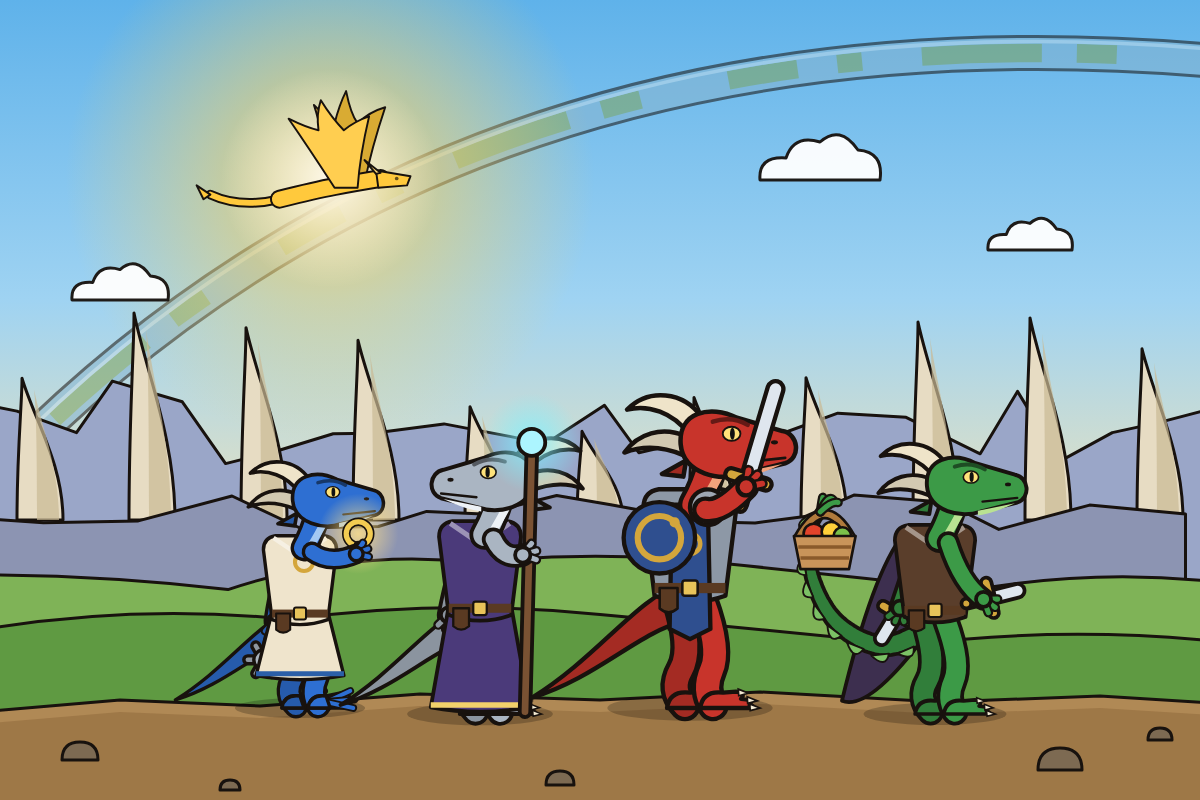
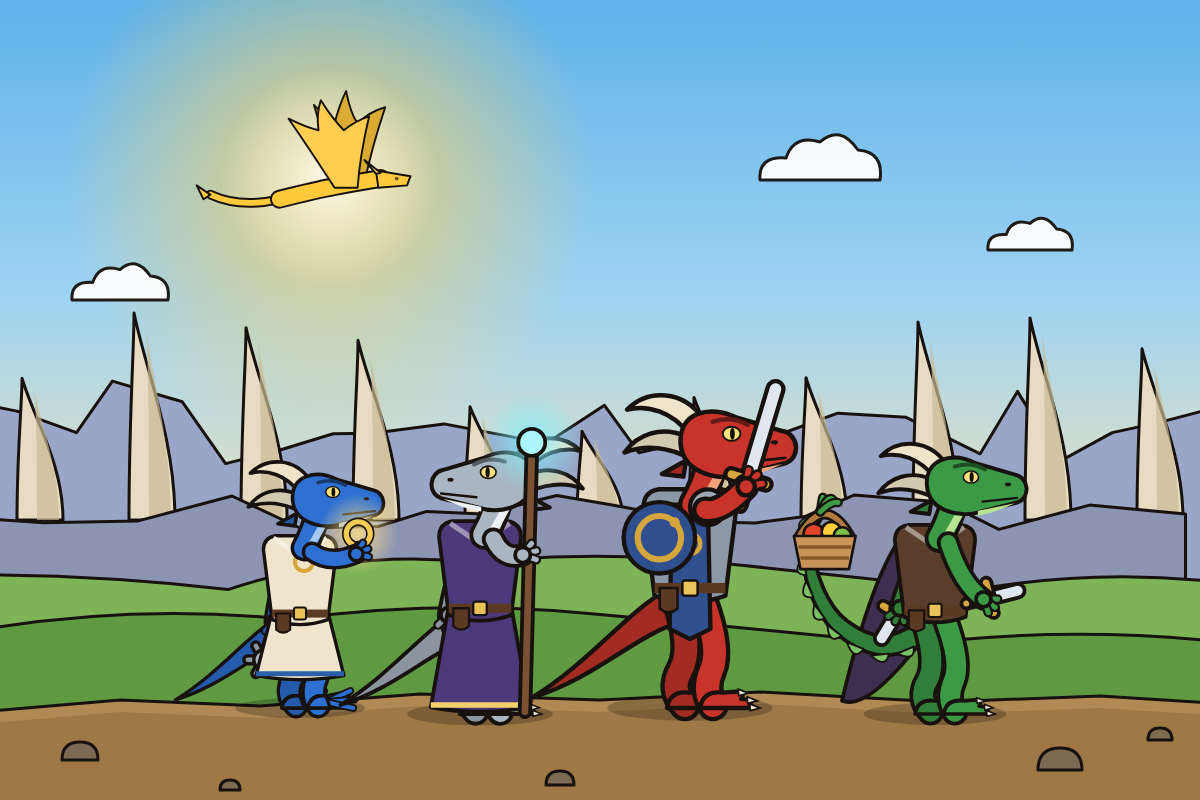
Retire the myth handout and the lore panels; drop the Spine scene's ring arch
- The myth handout Doc is deleted (Troy); a players' handbook chapter on
  the world will probably replace it (PLAN 2c).
- Lore panels deleted: lore_panels.py and its six images. The tapestries
  and their generator code stay.
- Spine scene: no ring arch, since from the outer equator the far side is
  below the horizon.

Claude-Session: https://claude.ai/code/session_014HRxeLr7e6EW9qyhZxDWju

Changed region(s): [[0.3392, 0.0312, 1.0, 0.25], [0.0308, 0.2812, 0.2467, 0.5312]]

diff --git a/art/cartoon/forms.py b/art/cartoon/forms.py
@@ -1,7 +1,7 @@
 """Dragonborn form details shared by every Saturday-Morning Bold drawing (2026-11-12, Troy):
 Red a touch larger and Blue a touch smaller; Green's prehensile tail holding an everyday thing
 (never a weapon or a shield); webbed fingers and toes for Blue and Indigo; the White form's
-Spectral Wings. Used by party.figure() (adventurers: colour wheel, handout scenes) and by
+Spectral Wings. Used by party.figure() (adventurers: colour wheel, adventuring scenes) and by
 tapestry_lib.person() (the tapestries). See art/STYLE.md, "Dragonborn by form"."""
 import math, random
 import numpy as np

diff --git a/worldgen/farside.py b/worldgen/farside.py
@@ -92,7 +92,7 @@ def band_grid(theta_deg, phi_deg=120):
 
 if __name__ == '__main__':
     os.makedirs(OUT, exist_ok=True)
-    thetas = [int(a) for a in sys.argv[1:]] or [110, 20, 250, 60, 10]   # Epochs 2-5; the Inner Sea handout scene
+    thetas = [int(a) for a in sys.argv[1:]] or [110, 20, 250, 60, 10]   # Epochs 2-5; the Inner Sea scene
     for td in thetas:
         Eg, Cg = band_grid(td)
         np.savez_compressed(os.path.join(OUT, f'farside_t{td}.npz'), E=Eg.astype(np.float16), C=Cg.astype(np.float16))

diff --git a/art/cartoon/make_scenes.py b/art/cartoon/make_scenes.py
@@ -1,4 +1,4 @@
-"""Render the two Saturday-Morning Bold dragonborn scenes used in the handout -> output/dragonborn_spine.png, output/dragonborn_innersea.png."""
+"""Render the two Saturday-Morning Bold dragonborn scenes (made for the retired myth handout) -> output/dragonborn_spine.png, output/dragonborn_innersea.png."""
 import os, sys, subprocess
 HERE = os.path.dirname(os.path.abspath(__file__)); os.chdir(HERE); sys.path.insert(0, HERE)
 os.makedirs('build', exist_ok=True); os.makedirs('output', exist_ok=True)

diff --git a/art/cartoon/tapestry_lib.py b/art/cartoon/tapestry_lib.py
@@ -533,7 +533,7 @@ def ring_band(hz, top_side=300, top_mid=380, foot_in=130, arch_mid=250, sky_unde
 
 def farside_ribbon(p0, c, p1, w, view, night=False, op=1.0, sty=None):
     """The ring arch as a ribbon along the quadratic curve p0 -> c -> p1 (w wide), showing the
-    real far side of the map (the handout scenes' style of arch)."""
+    real far side of the map (the Inner Sea scene's style of arch)."""
     sty = sty or st
     P0, C_, P1 = (np.array(q, float) for q in (p0, c, p1))
 

diff --git a/art/cartoon/party.py b/art/cartoon/party.py
@@ -458,7 +458,7 @@ def party(lst, gy, st, base):
 
 def scene_spine(st):
     b = sky(['#5fb2ea', '#9fd3f2', '#ffe7b0'], st, 0, 600)
-    b += ring_arch('M -80,560 Q 420,-40 1300,70', 30, st, op=.55)
+    # no ring arch here (Troy, 2026-11-12): from the outer equator the far side is below the horizon
     b += sky_dragon(330, 190, 1.15, '#ffc93c', '#ffd25a', st)
     if not st['geo'] or True:
         b += cloud(820, 180, 1.0, st) + cloud(1030, 250, .7, st) + cloud(120, 300, .8, st)

diff --git a/art/cartoon/tapestries.py b/art/cartoon/tapestries.py
@@ -1115,7 +1115,7 @@ def scene3():
 
 # ============================================================ Epoch 4
 def eggshell(cx, yb, rw, rh, fill, speck, seed, lean=0):
-    """Lower half of a giant cracked egg, with a zigzag rim (after lore_panels.py)."""
+    """Lower half of a giant cracked egg, with a zigzag rim (after the retired lore panels)."""
     rnd = random.Random(seed)
     top = yb - rh
     n = 9

diff --git a/art/README.md b/art/README.md
@@ -15,14 +15,13 @@ Each script `chdir`s to its own folder and writes to `build/` (SVG, git-ignored)
 | `party.py` | The library: dragonborn figures, weapons, sky dragons, scenes, and four style presets. Run directly → `build/sheet_<style>.svg`. `figure()` draws the form details from `forms.py` (2026-11-12). |
 | `forms.py` | Dragonborn form details shared by `party.figure()` and the tapestries' `person()` (Troy, 2026-11-12): Red a touch larger, Blue a touch smaller, Green's prehensile tail holding an everyday thing, webbed Blue and Indigo hands and feet, the White form's Spectral Wings. |
 | `render_style_sheets.py [styles…]` | `output/dragonborn_<style>.png`: the four-style comparison sheets (bold, chibi, storybook, geo). A historical record of the style choice (2026-10): not re-rendered with the form details. |
-| `make_scenes.py` | `output/dragonborn_spine.png`, `output/dragonborn_innersea.png`: the handout scenes in Bold, with the form details; the Inner Sea arch shows the real far side (`data/farside_t10.npz`) (2026-11-12). |
+| `make_scenes.py` | `output/dragonborn_spine.png`, `output/dragonborn_innersea.png`: two adventuring scenes in Bold (made for the retired myth handout), with the form details. The Inner Sea arch shows the real far side (`data/farside_t10.npz`); the Spine scene has no arch, since from the outer equator the far side is below the horizon (2026-11-12). |
 | `colour_wheel.py` | `output/colour_wheel.png`: the nine-form colour wheel of the species design (canon, 2026-10-24) (five colours, five hybrids, the Unphased, Gold and Silver watching). Hybrid colours are working values. Form details since 2026-11-12: the Green holds a flower in its tail, the White shows its Spectral Wings. |
 | `species_advancement.py` | `output/species_advancement.png`: the species advancement wheel: the colour wheel (no Gold or Silver) with six rings of advancement on each of the nine spokes, 54 arcs with curved text. Fill arcs in its `ARCS` table; `--print` also writes a white-page vector PDF for `canon/diagrams/print_wheels.py` (PROPOSED, 2026-11-11). |
-| `lore_panels.py` | `output/lore_1_bones.png` … `lore_5_campfire.png` and the sheet `output/lore_panels.png`: dragonborn adventurers visiting Azhi's history: the bones of Azhi (myth), the machine war, the age of faith, the twins' nest, and a campfire tale of the homunculi war (epochs PROPOSED, `canon/brainstorm-epochs.md`) (2026-11-11). |
-| `tapestries.md` | Plan for the six Tapestry Hall panels, Epochs 0–5 (a player-facing history in a White monastery), replacing the lore panels; all six decided, with render notes (2026-11-12). |
+| `tapestries.md` | Plan for the six Tapestry Hall panels, Epochs 0–5 (a player-facing history in a White monastery), which replaced the lore panels (deleted 2026-11-12); all six decided, with render notes (2026-11-12). |
 | `tapestries.py [n…]` | `output/tapestry_0.png` … `tapestry_5.png`. With no arguments it also writes the hall sheet `output/tapestry_hall.png` and the Epoch 3 faith icons `output/icon_black_church.png`, `icon_cult_of_the_ring.png`, `icon_machine_revivalists.png` and the sheet `icons_epoch3.png` (2026-11-12). |
 | `tapestry_lib.py` | The tapestry toolkit: posable dragons (spine curve, wings, legs, expressions), dragonborn poses and props (form details: sizes, Green tails, webbing, Spectral Wings in flight), the Unphased shimmer, the ring arch drawn from the real map (`data/farside_t<θ>.npz`, made by `worldgen/farside.py`), banners, and the woven frame (border, rod, caption, fringe). |
-| `azhi_cover.py` | `output/azhi_cover.png`: Azhi looming over the young world (handout cover), with its stubby wings (2026-11-12) |
+| `azhi_cover.py` | `output/azhi_cover.png`: Azhi looming over the young world (cover art), with its stubby wings (2026-11-12) |
 | `svg2png.py in.svg out.png W H` | A generic SVG → PNG rasterizer used by the others |
 
 ## Drawing a dragonborn

diff --git a/PLAN.md b/PLAN.md
@@ -9,7 +9,7 @@ The goal is a setting-specific derivative of the D&D 5e SRD for the ring-world A
 ## Phase 0: Setup
 
 - [x] Scaffold the repo: primer (`CLAUDE.md`), setting bible, decision log, myth text, worldgen and art code, outputs
-- [x] Player handout with the myth, cover art, map, torus view and dragonborn scenes (Claude Doc; link in `handouts/README.md`)
+- [x] Player handout with the myth, cover art, map, torus view and dragonborn scenes (Claude Doc). *Retired 2026-11-12 (Troy): the Doc was deleted; a world chapter in the players' handbook will replace it (see 2c).*
 - [x] Create the private GitHub repo `jiilik/azhi-campaign`
 - [x] Install the Claude GitHub App on `jiilik/azhi-campaign` (only that repo) so sessions can push
 - [x] Push the initial commit
@@ -64,7 +64,7 @@ The goal is a setting-specific derivative of the D&D 5e SRD for the ring-world A
 
 ### 2c. New sections *(proposed)*
 
-- [ ] Setting overview and the myth (link to `canon/azhi-myth.md`)
+- [ ] Setting overview and the myth (link to `canon/azhi-myth.md`). *(Troy, 2026-11-12: probably a chapter of our SRD-based players' handbook describing the world more fully, replacing the retired myth handout.)*
 - [ ] **Deep timeline:** six epochs before the present, each ending in catastrophe, with ruins and old lairs on the map. New origin lore for Brown, Yellow, Indigo and Grey replaces colour mixing (Troy, 2026-10-31). Working file: `canon/brainstorm-epochs.md`.
   - [ ] **Epoch myths** (Troy writes them): a canonical myth for each epoch. Older ones are hazier and disputed; the homunculi war is in living memory, so its account must be precise.
   - [ ] **Other planes:** see the planes notes in `canon/brainstorm-epochs.md` (2026-10-31).

diff --git a/canon/decisions.md b/canon/decisions.md
@@ -4,6 +4,7 @@ Newest first. One line per decision: what was decided, and why if a reason was g
 
 ## 2026-11-12
 
+- **Myth handout retired** (Troy): the Claude Doc handout is deleted; a chapter of the SRD-based players' handbook describing the world more fully will probably replace it. **Lore panels deleted**, replaced by the tapestries. **No ring arch in the Spine scene**, since from the outer equator the far side is below the horizon.
 - **The machine's orrery ring stays tilted** (Troy): the brass ring around the thinking machine's eye is the one deliberate exception to its symmetry, because rings are a theme. The machine revivalists' icon keeps it too.
 - **Tapestry fixes** (Troy): the thinking machines are built perfectly symmetric (no lopsided lights); snow caps sit on their peaks; the Epoch 1 glyphs centre over the temple; no bunting in Epoch 5 (it ran behind the dragons). Epoch 0's added planet and stardust orbit accepted.
 - **Tapestry art notes** (Troy): one caption font size on every tapestry; the far side of the ring is drawn from the real map's landforms; the domed, antenna-topped roof of the Epoch 2 machine belongs on the machine revivalists' temple, not the Cult of the Ring's. Dragonborn by form: Red drawn a touch larger and Blue a touch smaller; Green tails hold things like a hand (never a weapon or shield); Blue and Indigo hands and feet webbed where visible; at least one White in flight on Spectral Wings. Recorded in `art/STYLE.md` and `art/tapestries.md`.

diff --git a/worldgen/README.md b/worldgen/README.md
@@ -80,4 +80,4 @@ Ray-traces the coloured torus from an eye on the surface, looking across the hol
 
 ## farside.py
 
-Ray-traces the far side of the ring from the surface (the same geometry as `skyview.py`) and resamples it onto a normalized band grid, so the cartoon ring arch in the tapestries shows the map's real coastlines, highlands, snow and clouds → `art/cartoon/data/farside_t<θ>.npz` (height above sea level and cloud cover). Run `python worldgen/farside.py [θ ...]`; the default views are θ 110°, 20°, 250° and 60° (Epochs 2–5) and 10° (the Inner Sea handout scene). Needs `build/E.npy` and `build/img_angle.npy` (2026-11-12).
+Ray-traces the far side of the ring from the surface (the same geometry as `skyview.py`) and resamples it onto a normalized band grid, so the cartoon ring arch in the tapestries shows the map's real coastlines, highlands, snow and clouds → `art/cartoon/data/farside_t<θ>.npz` (height above sea level and cloud cover). Run `python worldgen/farside.py [θ ...]`; the default views are θ 110°, 20°, 250° and 60° (Epochs 2–5) and 10° (the Inner Sea scene). Needs `build/E.npy` and `build/img_angle.npy` (2026-11-12).

diff --git a/handouts/README.md b/handouts/README.md
@@ -1,12 +1,6 @@
 # Handouts
 
-| Handout | Where | Contents |
-|---|---|---|
-| **Azhi: The Dragon Philosopher**, player handout | Claude Doc: https://claude.ai/artifact/9wznrMy1LCi1i9cXMkw5PS (private to Troy unless shared) | Cover art (`art/cartoon/output/azhi_cover.png`), the full myth (exact canon text), the edge-on torus view, the world map, and two dragonborn scenes |
-
-To print it, open the doc and export it as PDF or Word.
-
-Scope (decided 2026-10-20): myth and visuals only. Session-zero and rules information goes in the SRD-derived document.
+No handouts at present. The myth handout (**Azhi: The Dragon Philosopher**, a Claude Doc) was retired and deleted on 2026-11-12 (Troy). A chapter of the SRD-based players' handbook describing the world more fully will probably replace it (`PLAN.md`, 2c). Its parts all live in the repo: the myth in `canon/azhi-myth.md`, the cover and scenes in `art/cartoon/output/`, the map and torus views in `worldgen/output/`.
 
 ## Draft: Character Origins (for editing)
 

diff --git a/art/tapestries.md b/art/tapestries.md
@@ -1,6 +1,6 @@
 # The Tapestry Hall: a player-facing history of Azhi (PLAN and first renders, 2026-11-12)
 
-*(Troy, voice, 2026-11-12.)* The five lore panels (`cartoon/lore_panels.py`) are being redone as **six tapestries** hanging in a **White monastery**. Players walk through them one at a time; each tells one chapter, condensed.
+*(Troy, voice, 2026-11-12.)* The five lore panels (formerly `cartoon/lore_panels.py`, deleted 2026-11-12) are redone as **six tapestries** hanging in a **White monastery**. Players walk through them one at a time; each tells one chapter, condensed.
 
 - **The legend, not the DM's truth.** Secrets are simply left out, but nothing woven is false: **no misdirection**. *(Secrets to leave out are listed in `canon/brainstorm-epochs.md`: today's Black is the young Black, the living thinking machine, the buried weapons forge, Indigo's weapon secrets; Gold and Silver are only whispered about.)*
 - **Captions: brief.** A short woven title, with a line or two at most.
